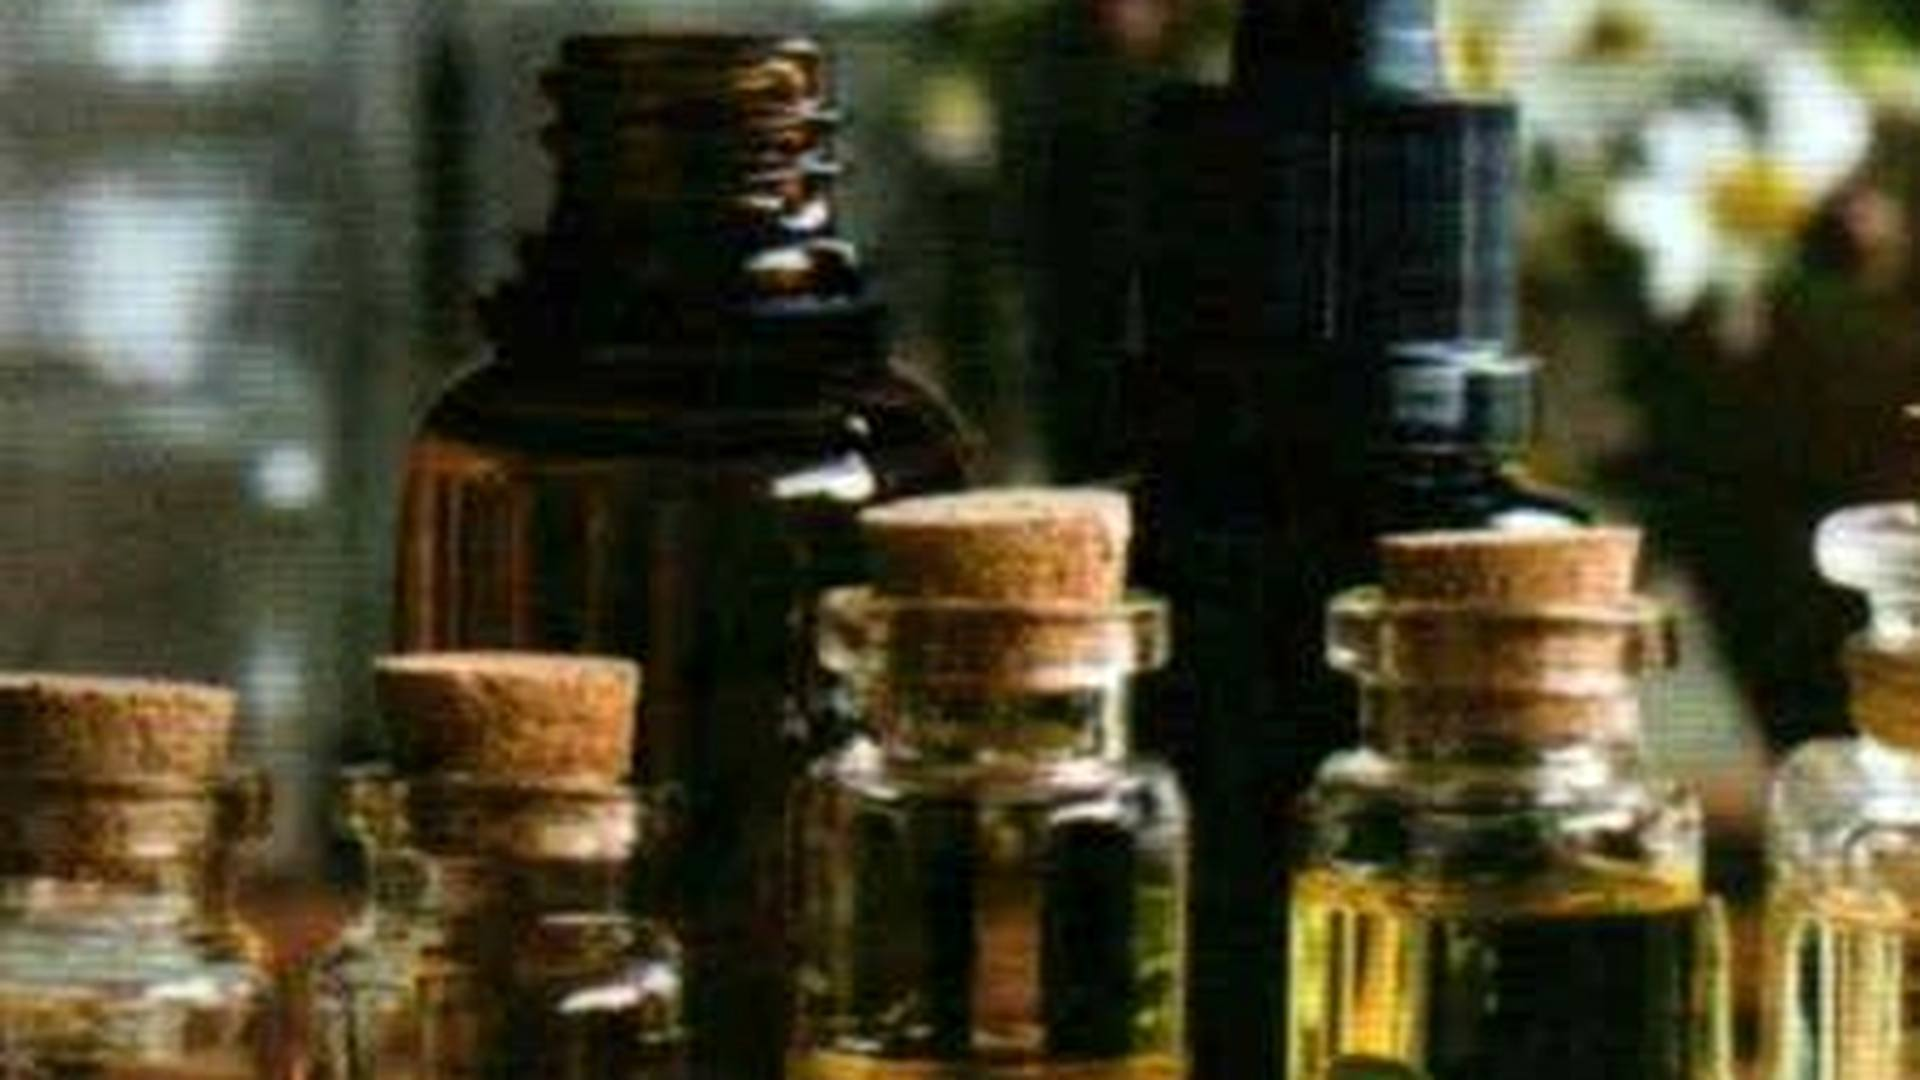
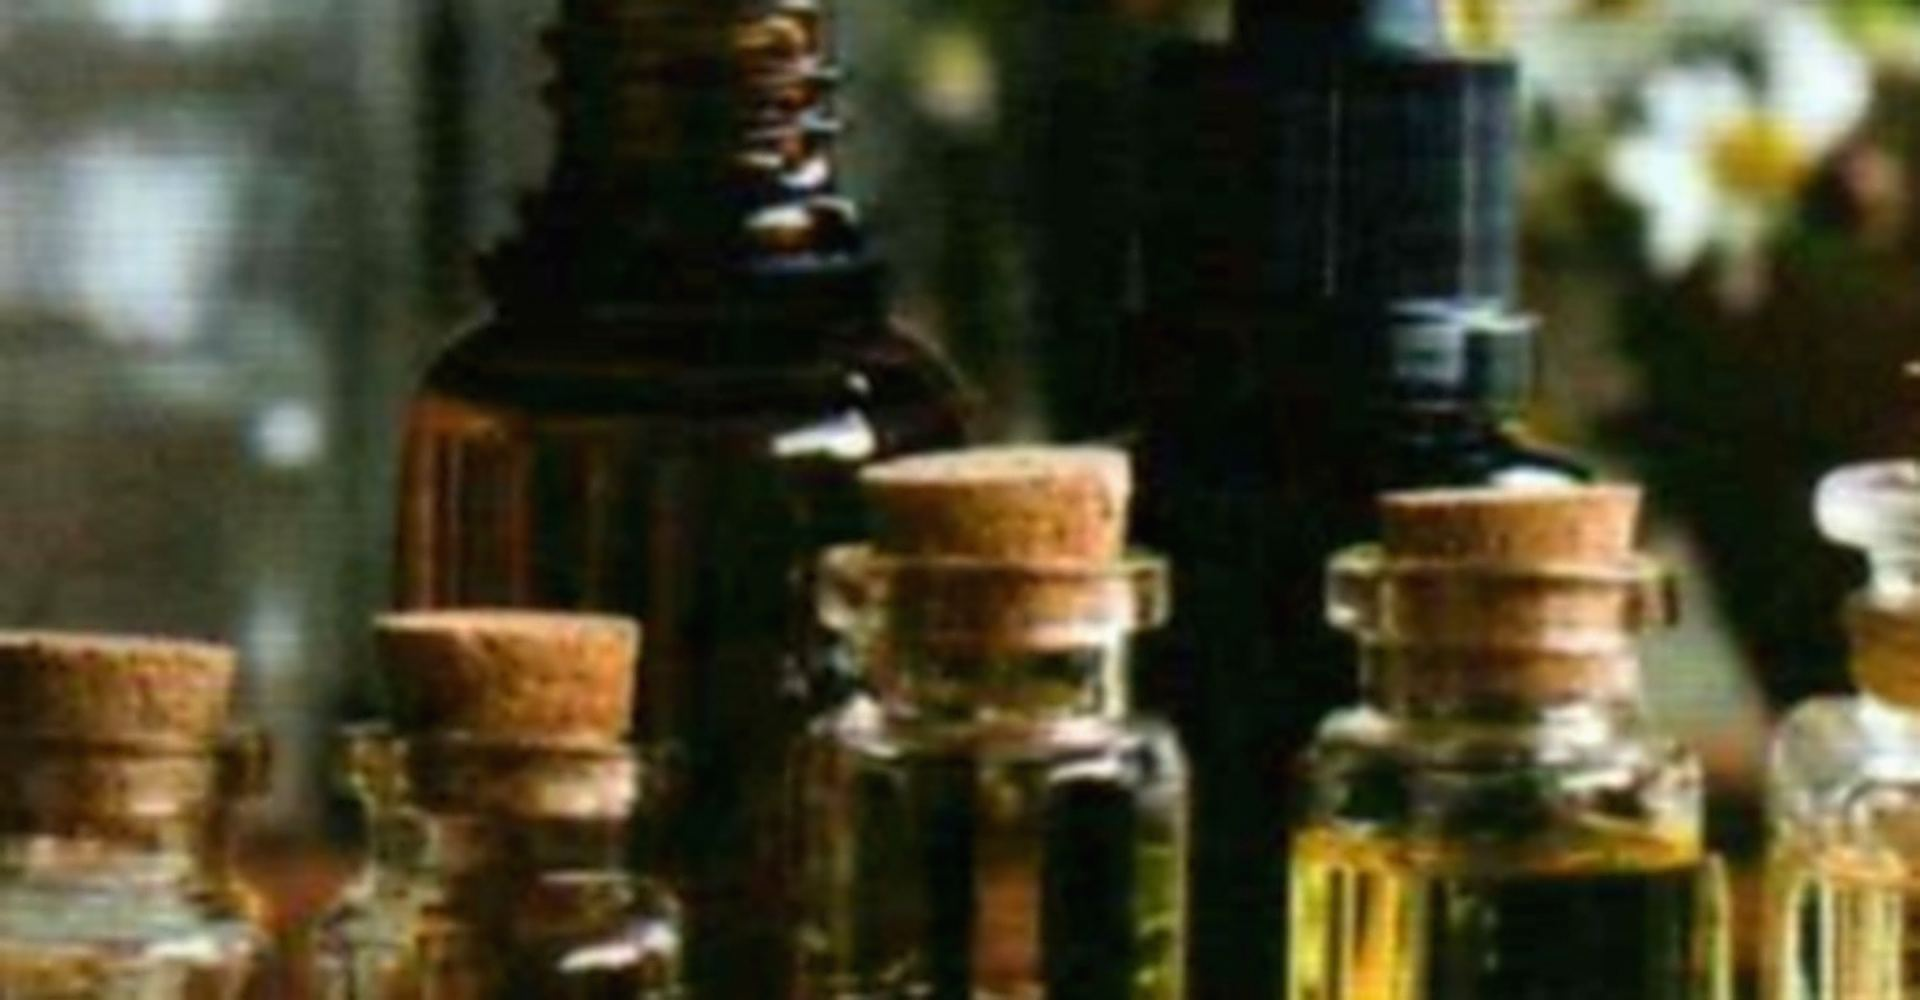
Who we work with: focus blur effect, shorter section, sharper processed photos

diff --git a/js/site.js b/js/site.js
@@ -236,12 +236,23 @@
       if (k === cur) return; cur = k;
       imgs.forEach(function (im) { im.classList.toggle('on', im.dataset.k === k); });
     };
+    var list = $('.wwo-list');
+    var focusOn = function (a) {
+      showImg(a.dataset.k);
+      var idx = links.indexOf(a);
+      list.classList.add('hov');
+      links.forEach(function (l, j) { l.style.setProperty('--dist', Math.abs(j - idx)); l.classList.toggle('act', j === idx); });
+    };
+    var focusOff = function () {
+      showImg('default'); list.classList.remove('hov');
+      links.forEach(function (l) { l.classList.remove('act'); });
+    };
     links.forEach(function (a) {
-      a.addEventListener('mouseenter', function () { showImg(a.dataset.k); });
-      a.addEventListener('focus', function () { showImg(a.dataset.k); });
+      a.addEventListener('mouseenter', function () { focusOn(a); });
+      a.addEventListener('focus', function () { focusOn(a); });
+      a.addEventListener('blur', focusOff);
     });
-    $('.wwo-list').addEventListener('mouseleave', function () { showImg('default'); });
-    links.forEach(function (a) { a.addEventListener('blur', function () { showImg('default'); }); });
+    list.addEventListener('mouseleave', focusOff);
   }
 
   /* ---------- counters ---------- */

diff --git a/css/site.css b/css/site.css
@@ -589,3 +589,15 @@ form.enq{background:var(--white);border-radius:var(--r);padding:42px}
 .wwo-note{margin:clamp(28px,4vw,48px) auto 0;max-width:46ch;color:#d8d3c6;font-size:16px}
 @media (hover:none){.wwo-list:hover a{opacity:1}}
 @media (max-width:700px){.wwo-list a{font-size:clamp(30px,9vw,44px)}}
+
+/* v2 who-we-work-with: shorter section, focus blur on the other names */
+.wwo{min-height:0}
+.wwo-in{padding:clamp(72px,7vw,100px) 24px clamp(44px,5vw,64px)}
+.wwo-in .label{margin-bottom:clamp(14px,2vw,26px)}
+.wwo-list a{font-size:clamp(30px,4vw,62px);padding:.05em 0;transition:filter .55s var(--ease),opacity .55s var(--ease),transform .7s var(--ease)}
+.wwo-note{margin-top:clamp(20px,2.6vw,34px);font-size:15px}
+.wwo-list:hover a{opacity:1}
+.wwo-list.hov a{filter:blur(calc(var(--dist,1) * 1.7px));opacity:calc(.62 - var(--dist,1) * .09)}
+.wwo-list.hov a.act{filter:none;opacity:1;transform:scale(1.04)}
+@media (hover:none){.wwo-list.hov a{filter:none;opacity:1}}
+.wwo-shade{background:radial-gradient(100% 80% at 50% 45%,rgba(13,12,10,.18),rgba(13,12,10,.7)),rgba(13,12,10,.2)}

diff --git a/BUILD_LOG.md b/BUILD_LOG.md
@@ -41,3 +41,5 @@
 - 2026-10-22: navbar rebuilt after Evermind: full-width bar (32px margins, 60px high, radius 16, solid cream) at top; compresses to a centred 900px pill with shadow after 40px scroll, expands again at top (width transition .75s). Links centred in a 3-column grid; no more hide-on-scroll. Below 1021px: hamburger + dropdown.
 
 - 2026-10-22: industries accordion replaced by "Who we work with" (Bailey Hart reference): full-bleed photo (images/who, upscaled+softened from low-res brochure crops), big centred white names, hover swaps photo + dims others, mouseleave returns to default. Needs real high-res photos to look sharp.
+
+- 2026-10-22: Who we work with: focus blur (others blur by distance + fade, hovered name sharp and scaled), section height cut ~1069px -> ~700px, photos re-processed (denoise halftone, two-step upscale, unsharp, grain; 1920x1000). Source crops are still ~400px: real/stock photos needed for true sharpness.
